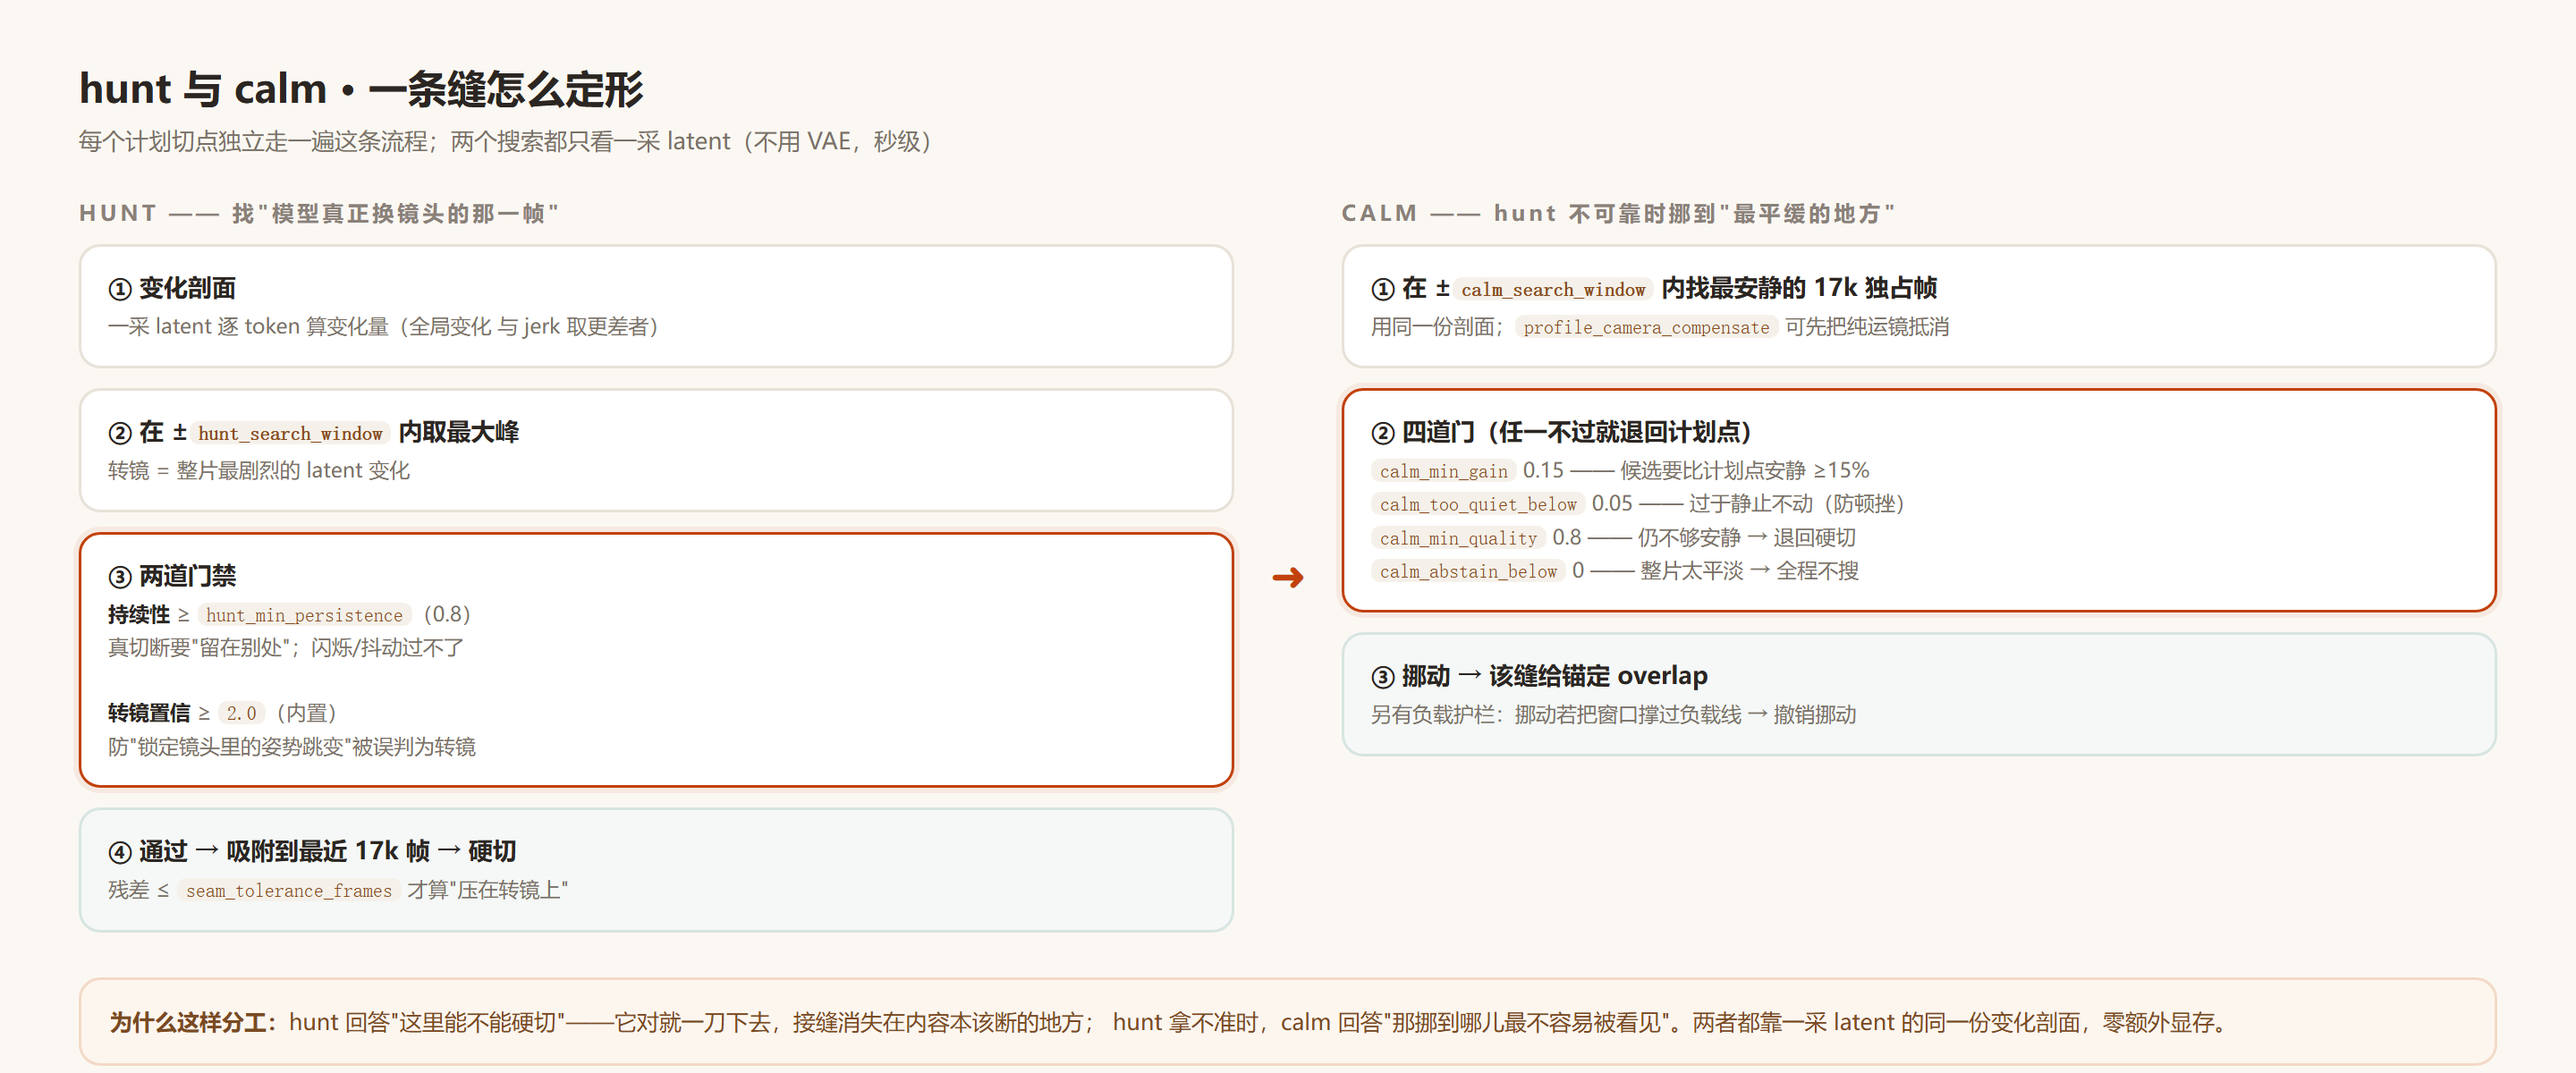
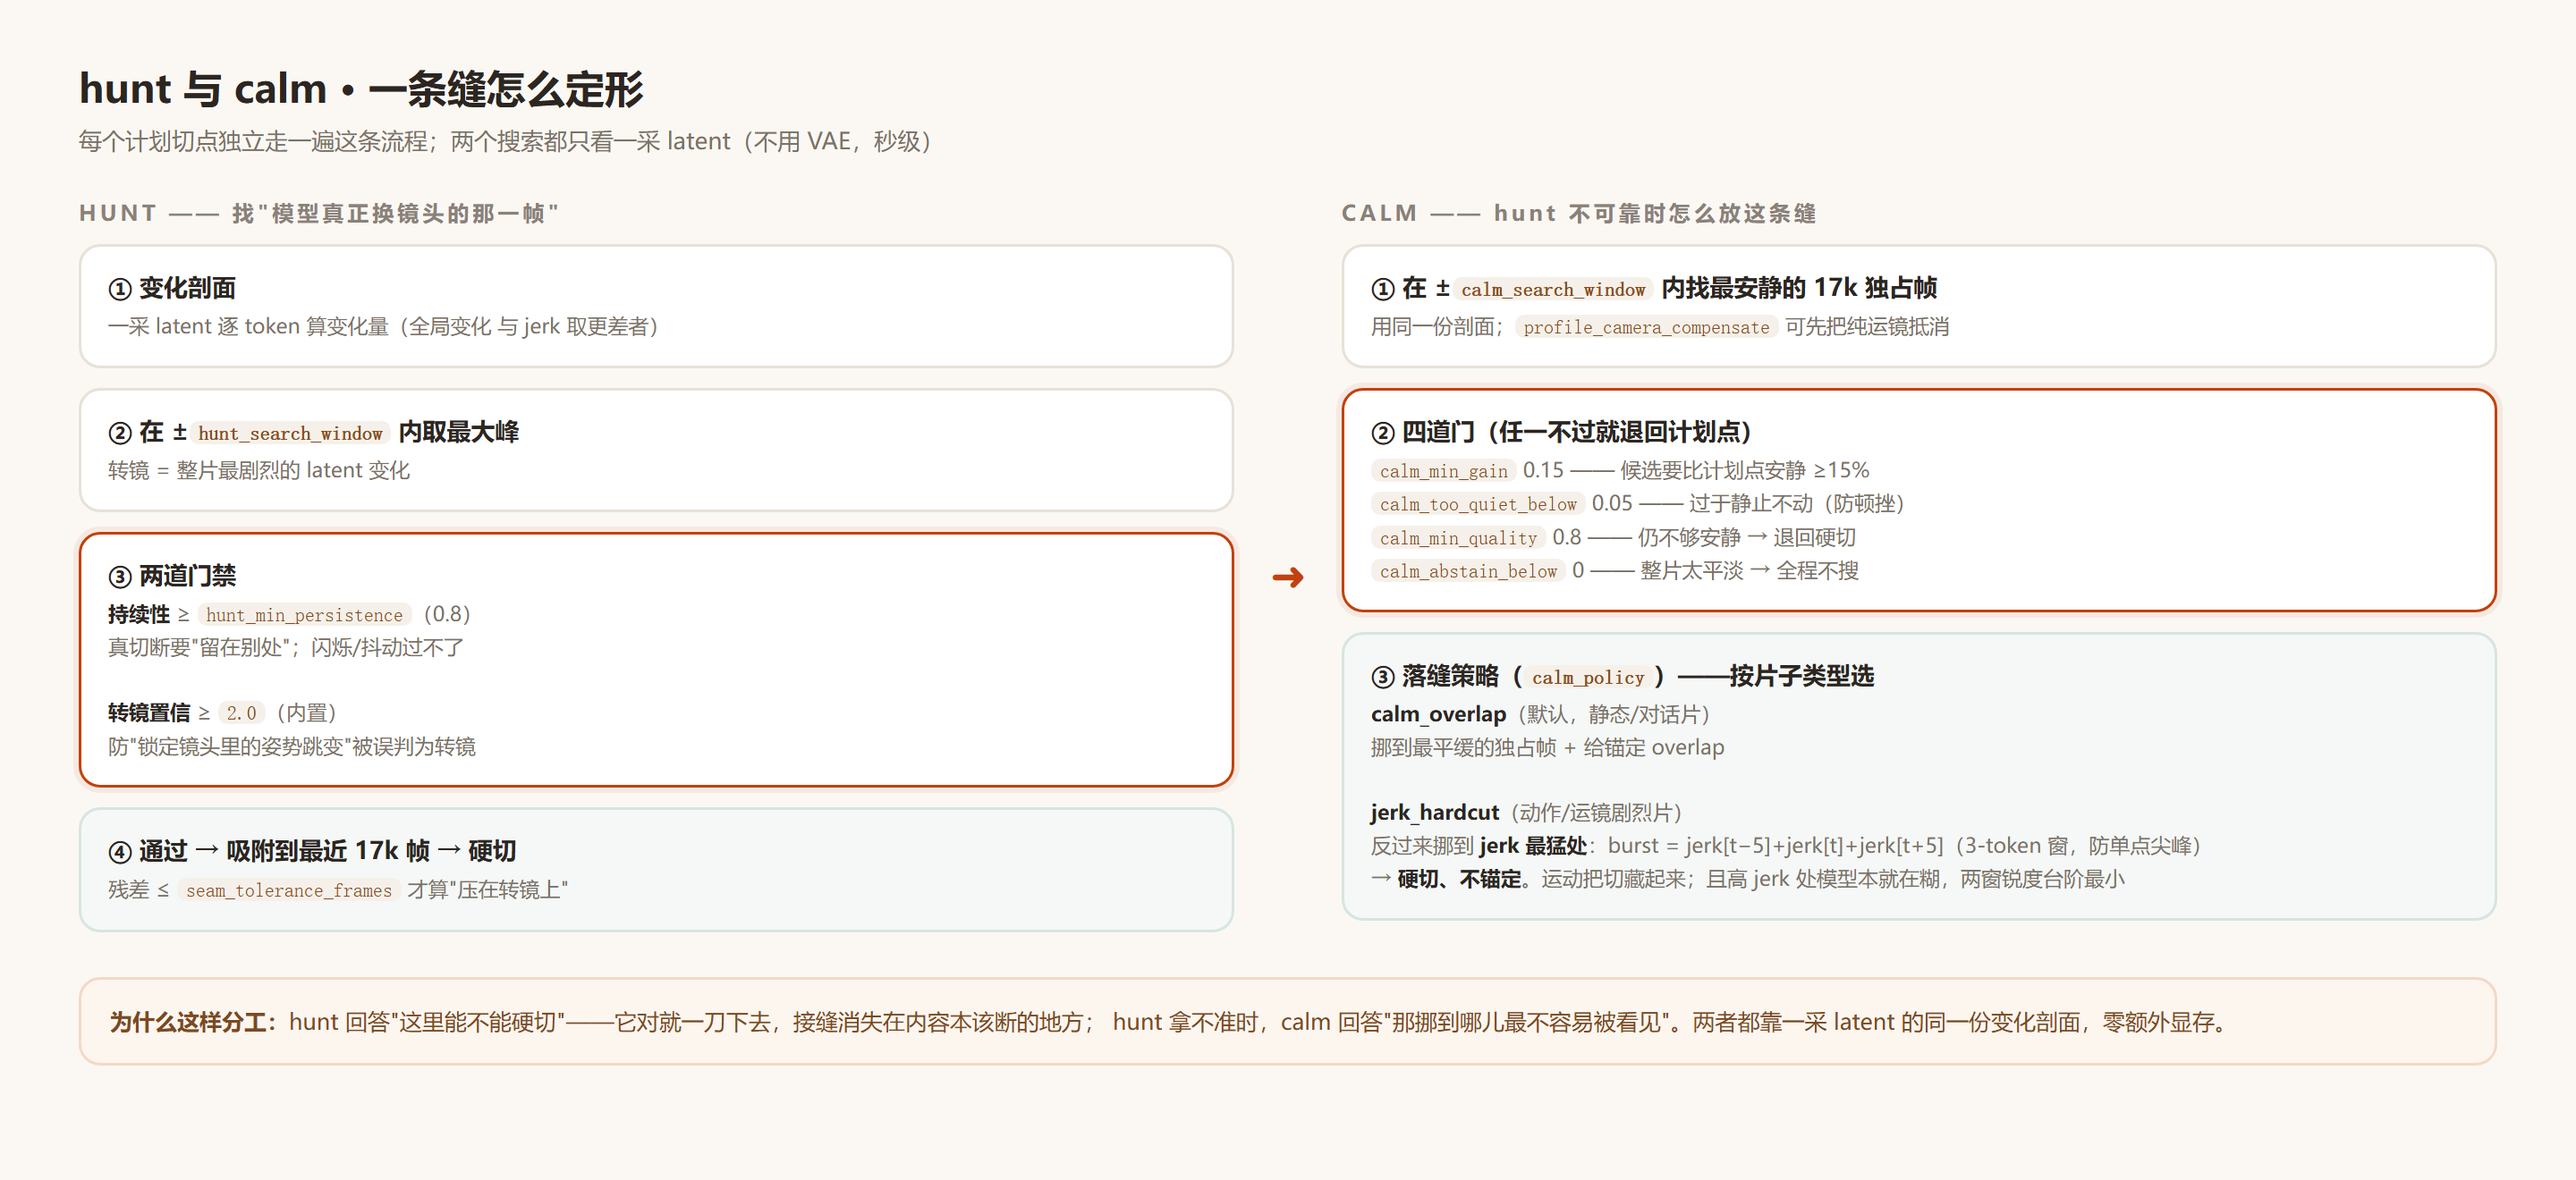
docs: 补全 calm_policy 双策略——jerk_hardcut（动作片反转向策略：burst=jerk[t-5]+jerk[t]+jerk[t+5] 取最猛处，硬切不锚定；运动藏切+高jerk处两窗锐度台阶最小）；⑤节/参数表/场景速查/决策图同步

Changed region(s): [[0.0312, 0.0617, 0.9688, 1.0], [0.5, 0.1542, 0.9688, 0.7708], [0.9375, 0.555, 0.9688, 0.5858]]

diff --git a/docs/img/decide.html b/docs/img/decide.html
@@ -50,7 +50,7 @@
     <div class="arw">➜</div>
 
     <div>
-      <div class="head">CALM —— hunt 不可靠时挪到"最平缓的地方"</div>
+      <div class="head">CALM —— hunt 不可靠时怎么放这条缝</div>
       <div class="card">
         <div class="t">① 在 ±<code>calm_search_window</code> 内找最安静的 17k 独占帧</div>
         <div class="n">用同一份剖面；<code>profile_camera_compensate</code> 可先把纯运镜抵消</div>
@@ -65,8 +65,14 @@
         </div>
       </div>
       <div class="card g">
-        <div class="t">③ 挪动 → 该缝给锚定 overlap</div>
-        <div class="n">另有负载护栏：挪动若把窗口撑过负载线 → 撤销挪动</div>
+        <div class="t">③ 落缝策略（<code>calm_policy</code>）——按片子类型选</div>
+        <div class="n">
+          <b>calm_overlap</b>（默认，静态/对话片）<br>
+          挪到最平缓的独占帧 + 给锚定 overlap<br><br>
+          <b>jerk_hardcut</b>（动作/运镜剧烈片）<br>
+          反过来挪到 <b>jerk 最猛处</b>：burst = jerk[t−5]+jerk[t]+jerk[t+5]（3-token 窗，防单点尖峰）<br>
+          → <b>硬切、不锚定</b>。运动把切藏起来；且高 jerk 处模型本就在糊，两窗锐度台阶最小
+        </div>
       </div>
     </div>
   </div>

diff --git a/docs/GUIDE.md b/docs/GUIDE.md
@@ -115,12 +115,14 @@
 `pers ≥ hunt_min_persistence(0.8)` → `global ≥ FLAT_RATIO(1.6)` → `global ≥ HUNT_MIN_CUT_RATIO(2.0)` →
 吸附到最近 17k 帧 → 残差 ≤ `seam_tolerance_frames` 才判"压在转镜上" → 硬切。
 
-### ⑤ calm：hunt 不可靠时"挪到最平缓的地方"
+### ⑤ calm：hunt 不可靠时怎么放这条缝
+
+⚠ 注意：这里**有两条方向相反的策略**（`calm_policy`），不是只有"找最平缓"。
 
 **取分**：与 hunt 同源的 `score[i] = max(global[i], jerk[i])`（两个视角都安静才算真安静）。
-**扫描**：在 `计划切点 ± calm_search_window`（默认 34，你的配置 51）内逐 17k 独占帧评估，取分数最低者为候选。
+**候选**：`计划切点 ± calm_search_window`（默认 34，你的配置 51）内的全部 17k 独占帧。
 
-四道门（任一不过就退回计划点）：
+**策略 A · `calm_overlap`（默认，静态/对话片）**——取分数**最低**者为候选，四道门（任一不过退回计划点）：
 
 | 门 | 默认 | 语义 |
 |---|---|---|
@@ -129,7 +131,20 @@
 | `calm_min_quality` | 0.8 | 候选分数仍 > 0.8 × 全片中位 → 不值得搜 → 退回计划点**硬切** |
 | `calm_abstain_below` | 0（关） | 全片 jerk 对比度 max/mean 低于本值 → 整片不搜、全保计划 |
 
-另有**负载护栏**：挪动若使某段 `帧数 × canvas_mp ≥ 负载线` → 撤销挪动、退回计划点。
+挪动成功 → 该缝给 `calm_overlap_frames`（17f）的锚定 overlap。
+
+**策略 B · `jerk_hardcut`（动作 / 运镜剧烈片）**——**反过来**取 jerk **最猛**者为候选：
+
+```text
+   burst(f) = jerk[t−5] + jerk[t] + jerk[t+5]        ← 3-token 窗（同相），防单点尖峰胜出
+   peak = max(候选, key=burst)  →  硬切，overlap = 0（**不锚定**）
+   burst 全为 0（全片无 jerk）→ 退回计划点，硬切
+```
+
+设计理由（代码注释原话）：**运动把切藏起来**；而且高 jerk 处模型本来就在"放弃、糊掉"——
+两个窗口之间的**锐度台阶在"两块都糊的帧"之间最小**。这里连续性不是目标，**藏得住**才是。
+
+**负载护栏**（两条策略共用）：挪动若使某段 `帧数 × canvas_mp ≥ 负载线` → 撤销挪动、退回计划点。
 
 ### ⑥ 缝窗重去噪（`seam_redenoise`，默认关）
 
@@ -270,7 +285,7 @@
 | `calm_min_quality` | 逐缝质量门 | 0.8 | 保持 | 0.80 |
 | `calm_too_quiet_below` | 过静保护 | 0.05 | 保持 | 0.05 |
 | `calm_abstain_below` | 整片平淡时放弃搜索 | 0 | 动作片可设 2.0 | 0.00 |
-| `calm_policy` | 拒绝后策略 | calm_overlap | 保持 | calm_overlap |
+| `calm_policy` | 落缝策略（两条方向相反） | calm_overlap | **动作/运镜剧烈 → jerk_hardcut** | calm_overlap / jerk_hardcut |
 | `profile_camera_compensate` | 剖面做镜头补偿 | False | **提示词有运镜时开** | **true** |
 | `profile_reduce` | 剖面聚合方式 | mean | 保持 | mean |
 
@@ -298,8 +313,8 @@
 
 | 场景 | 建议 |
 |---|---|
-| **动作 / 运镜剧烈的片** | `overlap_frames=17` + `auto_seam_hunt=true` + `auto_calm_search=true` + `profile_camera_compensate=true` + `seam_blend=false` |
-| **对话 / 静态镜头片** | 同上，但 `seam_blend=true`（交叉淡化在静止内容上零重影，能抹掉背景跳变） |
+| **动作 / 运镜剧烈的片** | `overlap_frames=17` + `auto_seam_hunt=true` + `auto_calm_search=true` + `profile_camera_compensate=true` + **`calm_policy=jerk_hardcut`（缝藏进最猛的运动里）** + `seam_blend=false` |
+| **对话 / 静态镜头片** | 同上，但 `calm_policy=calm_overlap`（缝挪到最平缓处）+ `seam_blend=true`（交叉淡化在静止内容上零重影，能抹掉背景跳变） |
 | **只想快速出片（不追缝）** | `overlap_frames=0`（全硬切）+ hunt/calm 关 —— 要求提示词里的切点非常准 |
 | **缝有台阶、想定点修** | `seam_redenoise=true` + `seam_redenoise_frames="187"` 单缝试，之后用 `stroke_check` 检查裂纹 |
 | **换剧情/换片** | 改 `cache_key`（避免读到上一条片的缓存） |
